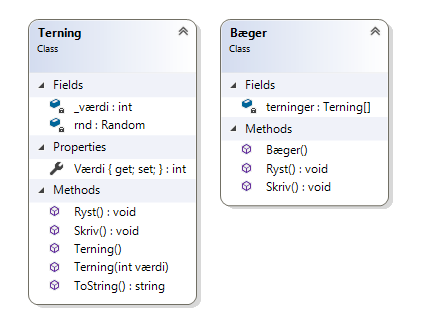
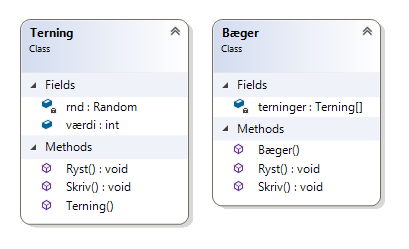
Bæger

diff --git a/array-yatzybaeger/Program.cs b/array-yatzybaeger/Program.cs
@@ -1,8 +1,4 @@
 using System;
-using System.Collections.Generic;
-using System.Linq;
-using System.Text;
-using System.Threading.Tasks;
 
 namespace arrays_yatzybaeger
 {
@@ -14,6 +10,8 @@ namespace arrays_yatzybaeger
             b.Skriv();
             b.Ryst();
             b.Skriv();
+
+            Console.ReadKey();
         }
     }
 
@@ -25,7 +23,7 @@ namespace arrays_yatzybaeger
         {
             for (int i = 0; i < 5; i++)
                 terninger[i] = new Terning();
-
+            Ryst();
         }
 
         public void Ryst()
@@ -37,60 +35,31 @@ namespace arrays_yatzybaeger
         public void Skriv()
         {
             for (int i = 0; i < 5; i++)
-                Console.Write(terninger[i].ToString());
+                terninger[i].Skriv();
             Console.WriteLine();
         }
     }
 
 
-    public class Terning
+public class Terning
+{
+    // Ved .NET Core behøver den ikke være statisk!!
+    private static Random rnd = new Random();
+    public int værdi;
+
+    public Terning()
     {
-        private static System.Random rnd = new Random();
-        private int _værdi;
-
-        public int Værdi
-        {
-            get
-            {
-
-                return this._værdi;
-            }
-
-            set
-            {
-                if (value < 1 || value > 6)
-                    throw new ApplicationException("Forkert værdi på terning");
-
-                this._værdi = value;
-            }
-        }
-
-
-        public Terning()
-        {
-            this.Ryst();
-        }
-
-        public Terning(int værdi)
-        {
-            this.Værdi = værdi;
-        }
-
-
-
-        public void Ryst()
-        {
-            this.Værdi = rnd.Next(1, 7);
-        }
-
-        public void Skriv()
-        {
-            Console.WriteLine(this.ToString());
-        }
-
-        public override string ToString()
-        {
-            return $"[{this.Værdi}]";
-        }
+        this.værdi = 1;
     }
+
+    public void Skriv()
+    {
+        Console.Write("[" + this.værdi + "]");
+    }
+
+    public void Ryst()
+    {
+        this.værdi = rnd.Next(1, 7);
+    }
+}
 }

diff --git a/array-yatzybaeger/Opgave/index.md b/array-yatzybaeger/Opgave/index.md
@@ -1,61 +1,31 @@
 # Bæger med terninger
 
-Opret en ny tom konsol-applikation og definer en terning som (eller skab din egen):
+Opret en ny tom konsol-applikation og definer en terning som følger:
 
 ```csharp
 public class Terning
-{        
-	// Kun nødvendig i .NET Framework - ved .NET Core kan man bare benytte en 
-	// instans når man har brug for det
-	private static System.Random rnd = new Random();
-	private int _værdi;
-             
-    public int Værdi
-    {
-        get
-        {
-                
-            return this._værdi;
-        }
+{
+    // Ved .NET Core behøver den ikke være statisk!!
+    private static Random rnd = new Random();
+    public int værdi;
 
-        set
-        {
-            if (value < 1 || value > 6)
-                throw new ApplicationException("Forkert værdi på terning");
-                
-            this._værdi = value;
-        }
-    }
-
-        
     public Terning()
     {
-        this.Ryst();
-    }
-
-    public Terning(int værdi)
-    {
-        this.Værdi = værdi;
-    }
-
-
-        
-    public void Ryst()
-    {
-        this.Værdi = rnd.Next(1, 7);
+        this.værdi = 1;
     }
 
     public void Skriv()
     {
-        Console.WriteLine(this.ToString());
+        Console.Write("[" + this.værdi + "]");
     }
 
-    public override string ToString()
+    public void Ryst()
     {
-        return $"[{this.Værdi}]";
+        this.værdi = rnd.Next(1, 7);
     }
 }
 ```
+
 Din opgave er nu at skabe en klasse Bæger som kan indeholde fem terninger i et private 
 array af Terning. Klassen skal indeholde følgende medlemmer:
 
